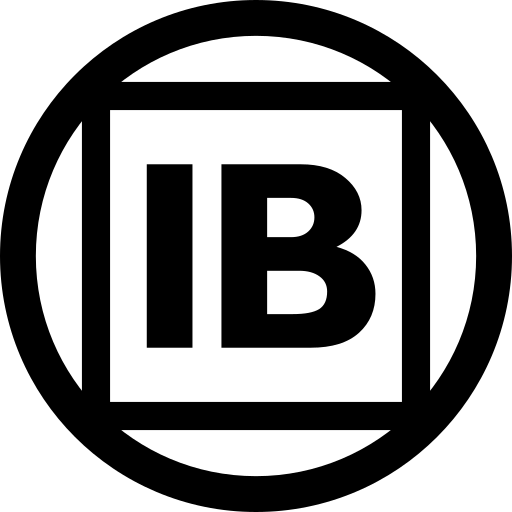
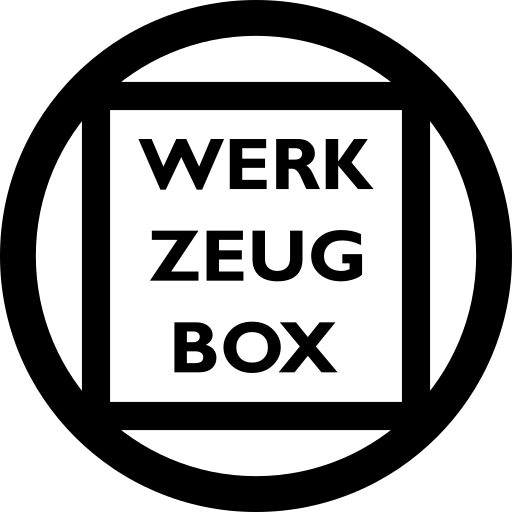
renaming from information box to werkzeugbox

Changed region(s): [[0.2812, 0.25, 0.75, 0.75]]

diff --git a/src/pages/contentScript/components/Werkzeugbox.tsx b/src/pages/contentScript/components/Werkzeugbox.tsx
@@ -1,10 +1,10 @@
 import React, { useState } from "react";
 import { Configuration } from "../constants/Config";
-import "../styles/InformationBox.styles.css";
+import "../styles/Werkzeugbox.styles.css";
 import Accordion from "./Accordion";
-import MouseMoveAndPosition from "./MouseMoveAndPosition";
+import MouseTool from "./MouseTool";
 
-const InformationBox = () => {
+const Werkzeugbox = () => {
     const [isDragging, setIsDragging] = useState(false);
     const [dragOffset, setDragOffset] = useState({ x: 0, y: 0 });
 
@@ -21,7 +21,7 @@ const InformationBox = () => {
     ) => {
         if (isDragging) {
             const container = document.querySelector(
-                ".information-box-container",
+                ".werkzeugbox-container",
             ) as HTMLElement; // Cast to HTMLElement
             if (container) {
                 container.style.left = `${event.clientX - dragOffset.x}px`;
@@ -41,15 +41,15 @@ const InformationBox = () => {
 
     return (
         <div
-            className="information-box-container"
+            className="werkzeugbox-container"
             onMouseDown={handleMouseDown}
             onMouseMove={handleMouseMove}
             onMouseUp={handleMouseUp}
         >
-            <div className="information-box-header">
-                <div className="information-box-title">Information Box</div>
+            <div className="werkzeugbox-header">
+                <div className="werkzeugbox-title">Werkzeugbox</div>
                 <div
-                    className="information-box-close"
+                    className="werkzeugbox-close"
                     onClick={handleCloseExtension}
                 >
                     X
@@ -58,8 +58,8 @@ const InformationBox = () => {
             <Accordion
                 accordionItems={[
                     {
-                        headerTitle: "Mouse position",
-                        content: <MouseMoveAndPosition />,
+                        headerTitle: "Mouse Tool",
+                        content: <MouseTool />,
                     },
                 ]}
                 activeIndexes={[0]}
@@ -68,29 +68,4 @@ const InformationBox = () => {
     );
 };
 
-/* export default InformationBox;
-            onMouseUp={handleMouseUp}
-        >
-            <div className="information-box-header">
-                <div className="information-box-title">Information Box</div>
-                <div
-                    className="information-box-close"
-                    onClick={handleCloseExtension}
-                >
-                    X
-                </div>
-            </div>
-            <Accordion
-                accordionItems={[
-                    {
-                        headerTitle: "Mouse position",
-                        content: <MouseMoveAndPosition />,
-                    },
-                ]}
-                activeIndexes={[0]}
-            />
-        </div>
-    );
-}; */
-
-export default InformationBox;
+export default Werkzeugbox;

diff --git a/src/pages/contentScript/styles/Werkzeugbox.styles.css b/src/pages/contentScript/styles/Werkzeugbox.styles.css
@@ -1,4 +1,4 @@
-.information-box-container {
+.werkzeugbox-container {
     position: absolute;
     width: 30rem;
     height: 15rem;
@@ -18,7 +18,7 @@
     user-select: none;
 }
 
-.information-box-header {
+.werkzeugbox-header {
     display: flex;
     justify-content: space-between;
     align-items: center;
@@ -30,12 +30,12 @@
     border-bottom: 1px solid rgba(0, 0, 0, 0.15);
 }
 
-.information-box-title {
+.werkzeugbox-title {
     font-size: 1rem;
     font-weight: bold;
 }
 
-.information-box-close {
+.werkzeugbox-close {
     cursor: pointer;
     font-size: 1rem;
     font-weight: bold;
@@ -49,7 +49,7 @@
     padding: 0.5rem;
 }
 
-.panel-container-mousemoveandposition {
+.panel-container-mouse-tool {
     display: grid;
     grid-template-columns: repeat(2, 1fr);
     gap: 10px;
@@ -57,7 +57,7 @@
     align-items: center;
 }
 
-.panel-container-mousemoveandposition > div {
+.panel-container-mouse-tool > div {
     background-color: #f2f2f2;
     padding: 10px;
     border-radius: 5px;

diff --git a/src/pages/contentScript/components/MouseTool.tsx b/src/pages/contentScript/components/MouseTool.tsx
@@ -1,7 +1,7 @@
 import React, { useEffect, useState } from "react";
-import "../styles/InformationBox.styles.css";
+import "../styles/Werkzeugbox.styles.css";
 
-const MouseMoveAndPosition = () => {
+const MouseTool = () => {
     const [mousePosition, setMousePosition] = useState({ x: 0, y: 0 });
     const [mouseButton, setMouseButton] = useState("");
 
@@ -37,7 +37,7 @@ const MouseMoveAndPosition = () => {
     }, []);
 
     return (
-        <div className="panel-container-mousemoveandposition">
+        <div className="panel-container-mouse-tool">
             <div>X: {mousePosition.x}</div>
             <div>Y: {mousePosition.y}</div>
             <div>Button: {mouseButton}</div>
@@ -45,4 +45,4 @@ const MouseMoveAndPosition = () => {
     );
 };
 
-export default MouseMoveAndPosition;
+export default MouseTool;

diff --git a/src/pages/contentScript/index.tsx b/src/pages/contentScript/index.tsx
@@ -1,6 +1,6 @@
 import React from "react";
 import { createRoot } from "react-dom/client";
-import InformationBox from "./components/InformationBox";
+import Werkzeugbox from "./components/Werkzeugbox";
 import { Configuration } from "./constants/Config";
 
 const initApplication = () => {
@@ -29,7 +29,7 @@ const initApplication = () => {
             const root = createRoot(container!);
             root.render(
                 <React.StrictMode>
-                    <InformationBox />
+                    <Werkzeugbox />
                 </React.StrictMode>,
             );
         }

diff --git a/src/pages/contentScript/constants/Config.ts b/src/pages/contentScript/constants/Config.ts
@@ -1,3 +1,3 @@
 export const Configuration = {
-    EXTENSION_ID: "application-extension-stansz-information-box",
+    EXTENSION_ID: "application-extension-stansz-werkzeugbox",
 };

diff --git a/README.md b/README.md
@@ -1,1 +1,1 @@
-# Chrome Extension "Information Box"
+# Chrome Extension "Werkzeugbox"
